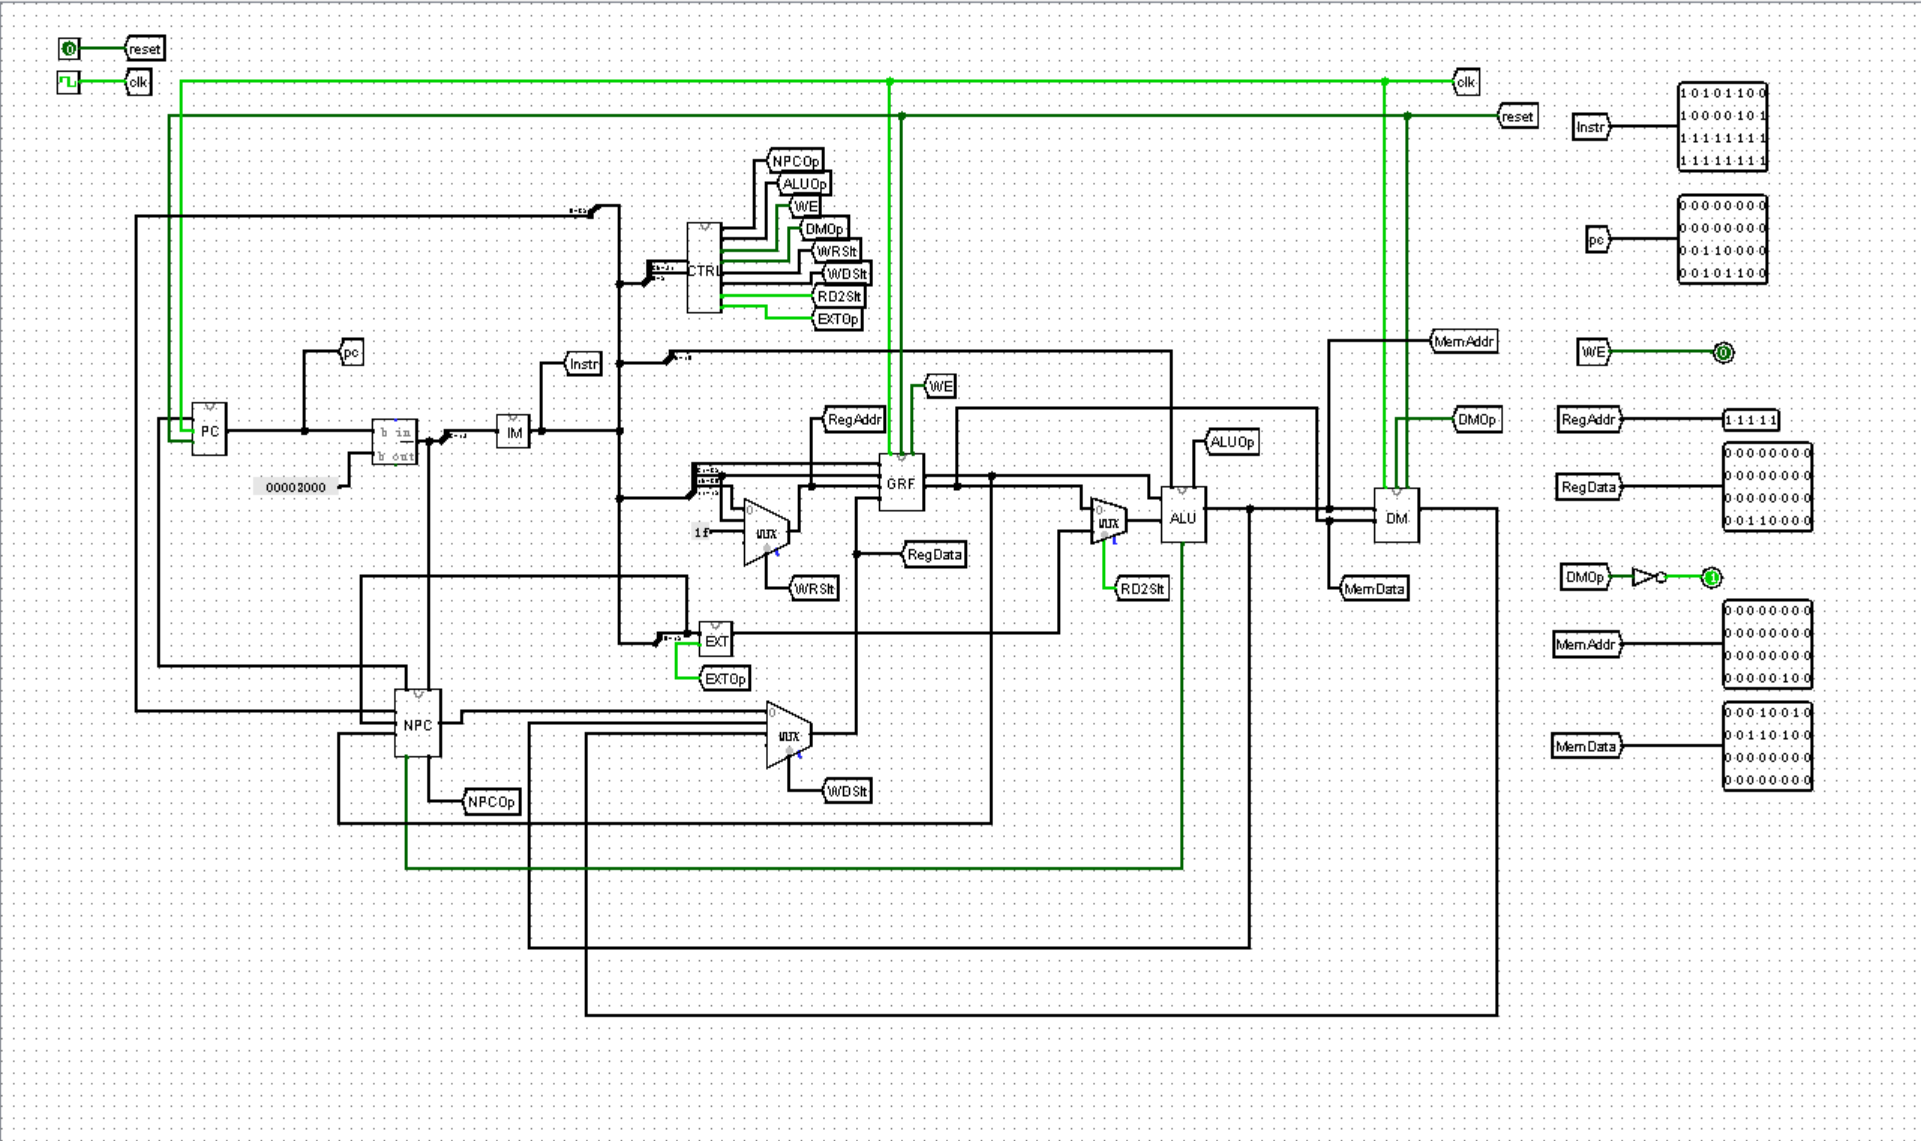
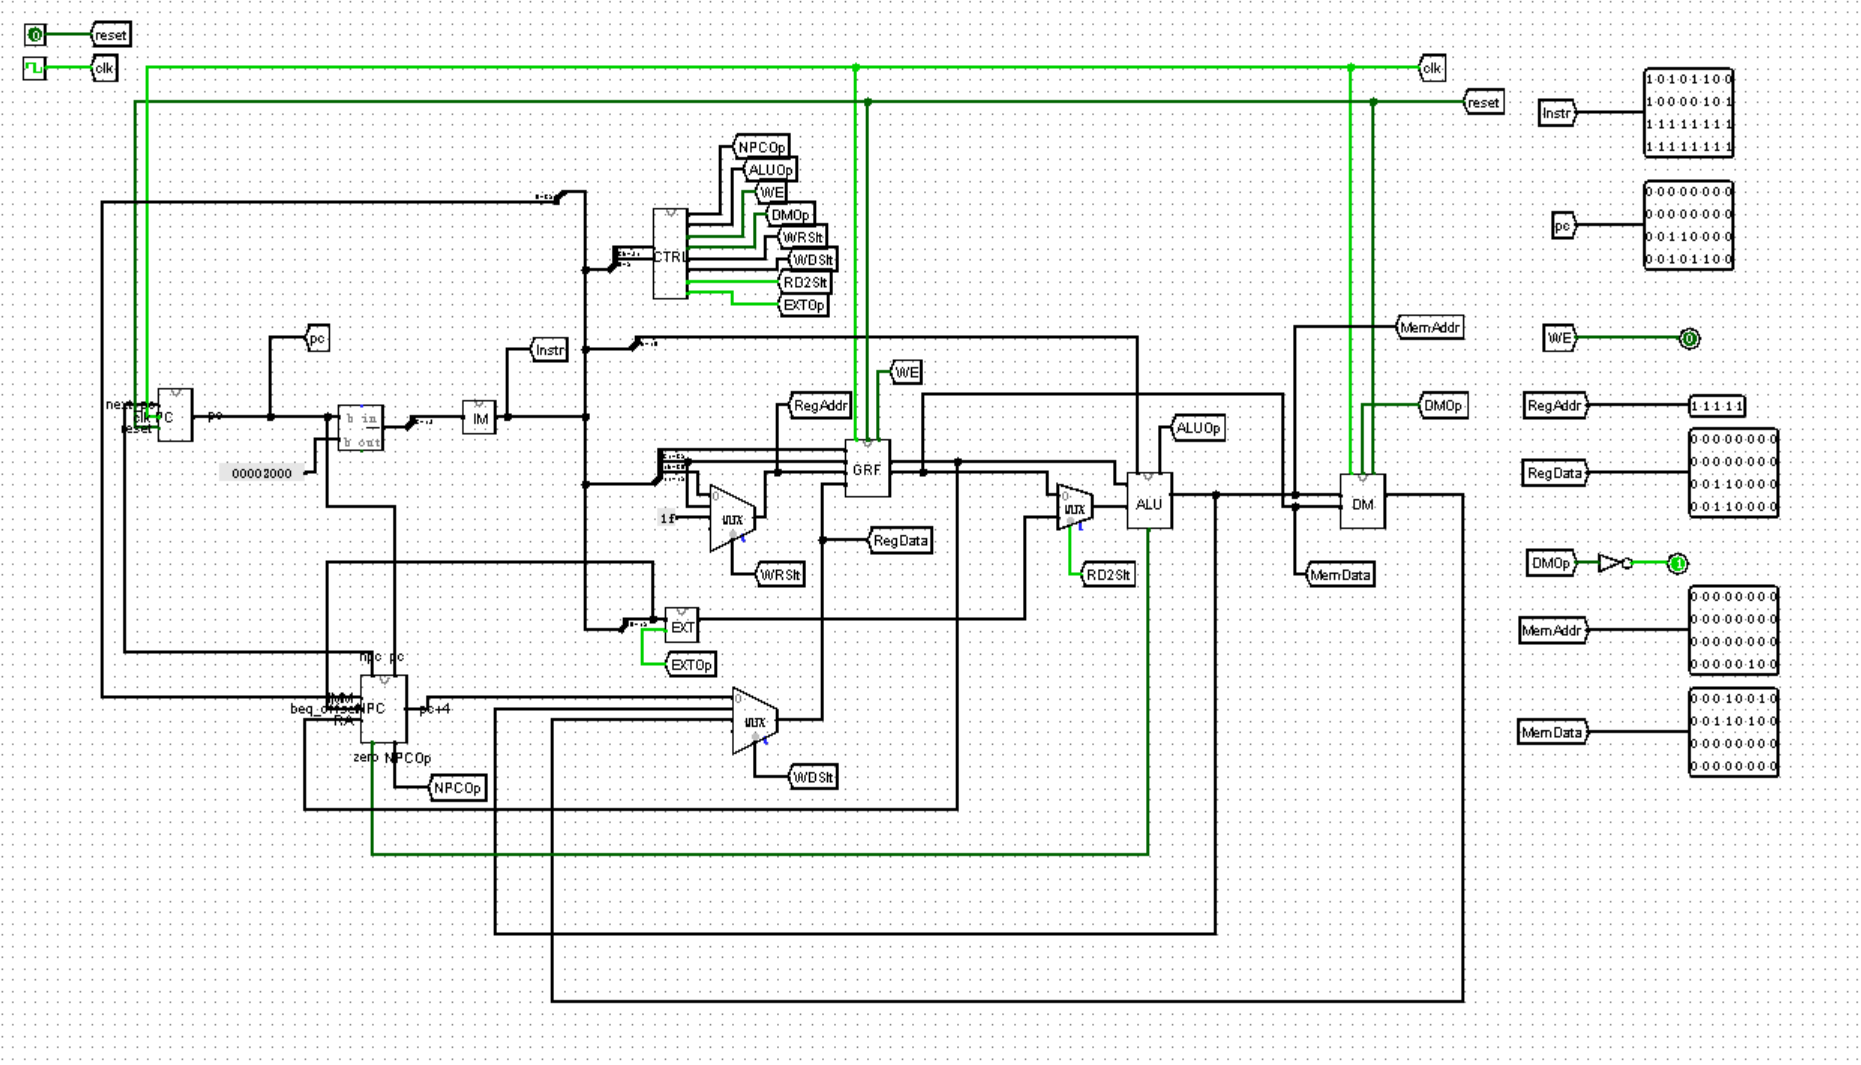
Site updated: 2024-10-26 21:46:38

diff --git a/2024/10/24/【CO】P3课下--单周期CPU/index.html b/2024/10/24/【CO】P3课下--单周期CPU/index.html
@@ -31,8 +31,18 @@
 <meta property="og:image" content="http://example.com/img/%E3%80%90CO%E3%80%91P3%E8%AF%BE%E4%B8%8B%E2%80%94%E2%80%94%E5%8D%95%E5%91%A8%E6%9C%9FCPU/p3.png">
 <meta property="og:image" content="http://example.com/img/%E3%80%90CO%E3%80%91P3%E8%AF%BE%E4%B8%8B%E2%80%94%E2%80%94%E5%8D%95%E5%91%A8%E6%9C%9FCPU/p4.png">
 <meta property="og:image" content="http://example.com/img/%E3%80%90CO%E3%80%91P3%E8%AF%BE%E4%B8%8B%E2%80%94%E2%80%94%E5%8D%95%E5%91%A8%E6%9C%9FCPU/p5.png">
+<meta property="og:image" content="http://example.com/img/%E3%80%90CO%E3%80%91P3%E8%AF%BE%E4%B8%8B%E2%80%94%E2%80%94%E5%8D%95%E5%91%A8%E6%9C%9FCPU/p6.png">
+<meta property="og:image" content="http://example.com/img/%E3%80%90CO%E3%80%91P3%E8%AF%BE%E4%B8%8B%E2%80%94%E2%80%94%E5%8D%95%E5%91%A8%E6%9C%9FCPU/p7.png">
+<meta property="og:image" content="http://example.com/img/%E3%80%90CO%E3%80%91P3%E8%AF%BE%E4%B8%8B%E2%80%94%E2%80%94%E5%8D%95%E5%91%A8%E6%9C%9FCPU/p8.png">
+<meta property="og:image" content="http://example.com/img/%E3%80%90CO%E3%80%91P3%E8%AF%BE%E4%B8%8B%E2%80%94%E2%80%94%E5%8D%95%E5%91%A8%E6%9C%9FCPU/p9.png">
+<meta property="og:image" content="http://example.com/img/%E3%80%90CO%E3%80%91P3%E8%AF%BE%E4%B8%8B%E2%80%94%E2%80%94%E5%8D%95%E5%91%A8%E6%9C%9FCPU/p10.png">
+<meta property="og:image" content="http://example.com/img/%E3%80%90CO%E3%80%91P3%E8%AF%BE%E4%B8%8B%E2%80%94%E2%80%94%E5%8D%95%E5%91%A8%E6%9C%9FCPU/p11.png">
+<meta property="og:image" content="http://example.com/img/%E3%80%90CO%E3%80%91P3%E8%AF%BE%E4%B8%8B%E2%80%94%E2%80%94%E5%8D%95%E5%91%A8%E6%9C%9FCPU/p12.png">
+<meta property="og:image" content="http://example.com/img/%E3%80%90CO%E3%80%91P3%E8%AF%BE%E4%B8%8B%E2%80%94%E2%80%94%E5%8D%95%E5%91%A8%E6%9C%9FCPU/p13.png">
+<meta property="og:image" content="http://example.com/img/%E3%80%90CO%E3%80%91P3%E8%AF%BE%E4%B8%8B%E2%80%94%E2%80%94%E5%8D%95%E5%91%A8%E6%9C%9FCPU/p14.png">
+<meta property="og:image" content="http://example.com/img/%E3%80%90CO%E3%80%91P3%E8%AF%BE%E4%B8%8B%E2%80%94%E2%80%94%E5%8D%95%E5%91%A8%E6%9C%9FCPU/p15.png">
 <meta property="article:published_time" content="2024-10-24T01:32:20.000Z">
-<meta property="article:modified_time" content="2024-10-26T10:37:49.067Z">
+<meta property="article:modified_time" content="2024-10-26T13:46:21.329Z">
 <meta property="article:author" content="mRNA">
 <meta property="article:tag" content="CO">
 <meta property="article:tag" content="Logisim">
@@ -262,7 +272,7 @@
       <span class="post-meta mr-2">
         <i class="iconfont icon-chart"></i>
         
-          842 字
+          1.8k 字
         
       </span>
     
@@ -273,7 +283,7 @@
         
         
         
-          8 分钟
+          15 分钟
         
       </span>
     
@@ -396,10 +406,255 @@
 </tr>
 <tr>
 <td>IMM</td>
-<td>接收当前J型指令的偏移量</td>
+<td>接收当前J型指令的26位转移地址</td>
+</tr>
+<tr>
+<td>beq_offset</td>
+<td>接收beq指令中16位偏移量</td>
+</tr>
+<tr>
+<td>RA</td>
+<td>接收读出的jr指令转移至$31指向的地址（仅设计了jr $ra）</td>
+</tr>
+<tr>
+<td>zero</td>
+<td>接收ALU返回的rs rt寄存器值是否相等的信号，用于beq</td>
+</tr>
+<tr>
+<td>NPCOp</td>
+<td>接收CTRL返回的下一个PC所指向的位置类型控制信号</td>
+</tr>
+<tr>
+<td>npc</td>
+<td>向PC传递经NPC模块得到的下一条执行指令的位置</td>
 </tr>
 </tbody></table>
+<p>其中，控制信号NPCOp的功能具体如下：</p>
+<table>
+<thead>
+<tr>
+<th>信号</th>
+<th>功能</th>
+</tr>
+</thead>
+<tbody><tr>
+<td>2’b00</td>
+<td>npc为pc+4</td>
+</tr>
+<tr>
+<td>2’b01</td>
+<td>npc为j&#x2F;jal指向的指令</td>
+</tr>
+<tr>
+<td>2’b10</td>
+<td>npc为$ra指向的指令</td>
+</tr>
+<tr>
+<td>2’b11</td>
+<td>npc为pc+4&#x2F;beq分支的指令，取决于zero的输入</td>
+</tr>
+</tbody></table>
+<h4 id="实现电路-1"><a href="#实现电路-1" class="headerlink" title="实现电路"></a>实现电路</h4><p><img src="/img/%E3%80%90CO%E3%80%91P3%E8%AF%BE%E4%B8%8B%E2%80%94%E2%80%94%E5%8D%95%E5%91%A8%E6%9C%9FCPU/p6.png" srcset="/img/loading.gif" lazyload alt="电路图"></p>
+<div class="note note-danger">
+            <p>注意：此处pc接收的应未减0x00003000，并且输出npc前减去0x00003000以保持与pc的配合</p>
+          </div>
 
+<h3 id="IM"><a href="#IM" class="headerlink" title="IM"></a>IM</h3><p>结构相对简单，输入为希望读取的地址，输出为读到的指令机器码。</p>
+<h3 id="GRF"><a href="#GRF" class="headerlink" title="GRF"></a>GRF</h3><h4 id="端口说明-2"><a href="#端口说明-2" class="headerlink" title="端口说明"></a>端口说明</h4><p><img src="/img/%E3%80%90CO%E3%80%91P3%E8%AF%BE%E4%B8%8B%E2%80%94%E2%80%94%E5%8D%95%E5%91%A8%E6%9C%9FCPU/p7.png" srcset="/img/loading.gif" lazyload alt="示意图"></p>
+<table>
+<thead>
+<tr>
+<th>端口</th>
+<th>功能</th>
+</tr>
+</thead>
+<tbody><tr>
+<td>A1</td>
+<td>读取的第一个寄存器编号（rs）</td>
+</tr>
+<tr>
+<td>A2</td>
+<td>读取的第二个寄存器编号（rt）</td>
+</tr>
+<tr>
+<td>WR</td>
+<td>写入数据的目标寄存器（rd&#x2F;rt&#x2F;$ra）</td>
+</tr>
+<tr>
+<td>WD</td>
+<td>写入目标寄存器的数据</td>
+</tr>
+<tr>
+<td>RD1</td>
+<td>A1中的数据</td>
+</tr>
+<tr>
+<td>RD2</td>
+<td>A2中的数据</td>
+</tr>
+<tr>
+<td>clk</td>
+<td>时钟信号</td>
+</tr>
+<tr>
+<td>reset</td>
+<td>异步复位信号</td>
+</tr>
+<tr>
+<td>WE</td>
+<td>写入信号</td>
+</tr>
+</tbody></table>
+<h4 id="实现电路-2"><a href="#实现电路-2" class="headerlink" title="实现电路"></a>实现电路</h4><p><img src="/img/%E3%80%90CO%E3%80%91P3%E8%AF%BE%E4%B8%8B%E2%80%94%E2%80%94%E5%8D%95%E5%91%A8%E6%9C%9FCPU/p8.png" srcset="/img/loading.gif" lazyload alt="电路图"><br>实现思路很简单，注意对应关系不要混乱即可，推荐自动化对.circ文件内容进行修改。</p>
+<h3 id="ALU"><a href="#ALU" class="headerlink" title="ALU"></a>ALU</h3><h4 id="端口说明-3"><a href="#端口说明-3" class="headerlink" title="端口说明"></a>端口说明</h4><p> <img src="/img/%E3%80%90CO%E3%80%91P3%E8%AF%BE%E4%B8%8B%E2%80%94%E2%80%94%E5%8D%95%E5%91%A8%E6%9C%9FCPU/p9.png" srcset="/img/loading.gif" lazyload alt="示意图"></p>
+<table>
+<thead>
+<tr>
+<th>端口</th>
+<th>功能</th>
+</tr>
+</thead>
+<tbody><tr>
+<td>A</td>
+<td>进行运算的第一个数</td>
+</tr>
+<tr>
+<td>B</td>
+<td>进行运算的第二个数</td>
+</tr>
+<tr>
+<td>sll</td>
+<td>进行sll操作需要左移的位数</td>
+</tr>
+<tr>
+<td>ALUOp</td>
+<td>控制信号，选择ALU进行的操作</td>
+</tr>
+<tr>
+<td>zero</td>
+<td>输出两个寄存器中的值是否相等，为beq指令时的NPC提供是否分支的依据</td>
+</tr>
+<tr>
+<td>ans</td>
+<td>输出运算结果</td>
+</tr>
+</tbody></table>
+<p>其中，控制信号ALUOp的功能具体如下：</p>
+<table>
+<thead>
+<tr>
+<th>信号</th>
+<th>功能</th>
+</tr>
+</thead>
+<tbody><tr>
+<td>3’b000</td>
+<td>A+B</td>
+</tr>
+<tr>
+<td>3’b001</td>
+<td>A-B</td>
+</tr>
+<tr>
+<td>3’b010</td>
+<td>A</td>
+</tr>
+<tr>
+<td>3’b011</td>
+<td>B&lt;&lt;sll</td>
+</tr>
+<tr>
+<td>3’b100</td>
+<td>B&lt;&lt;16</td>
+</tr>
+</tbody></table>
+<h4 id="实现电路-3"><a href="#实现电路-3" class="headerlink" title="实现电路"></a>实现电路</h4><p><img src="/img/%E3%80%90CO%E3%80%91P3%E8%AF%BE%E4%B8%8B%E2%80%94%E2%80%94%E5%8D%95%E5%91%A8%E6%9C%9FCPU/p10.png" srcset="/img/loading.gif" lazyload alt="电路图"><br>利用Logisim自带的元件进行算术操作，实现较为简单。ALU关键在于数据通路，在下面分析。</p>
+<h3 id="DM"><a href="#DM" class="headerlink" title="DM"></a>DM</h3><p><img src="/img/%E3%80%90CO%E3%80%91P3%E8%AF%BE%E4%B8%8B%E2%80%94%E2%80%94%E5%8D%95%E5%91%A8%E6%9C%9FCPU/p11.png" srcset="/img/loading.gif" lazyload alt="电路图"><br>想法也较为简单，使用之前提到的RAM即可，其中DMOp作为读写控制信号，其功能具体如下:</p>
+<table>
+<thead>
+<tr>
+<th>信号</th>
+<th>功能</th>
+</tr>
+</thead>
+<tbody><tr>
+<td>1’b0</td>
+<td>写入数据</td>
+</tr>
+<tr>
+<td>1’b1</td>
+<td>读出数据</td>
+</tr>
+</tbody></table>
+<h3 id="EXT"><a href="#EXT" class="headerlink" title="EXT"></a>EXT</h3><p><img src="/img/%E3%80%90CO%E3%80%91P3%E8%AF%BE%E4%B8%8B%E2%80%94%E2%80%94%E5%8D%95%E5%91%A8%E6%9C%9FCPU/p12.png" srcset="/img/loading.gif" lazyload alt="电路图"><br>选择0扩展或符号扩展</p>
+<table>
+<thead>
+<tr>
+<th>信号</th>
+<th>功能</th>
+</tr>
+</thead>
+<tbody><tr>
+<td>1’b0</td>
+<td>0扩展</td>
+</tr>
+<tr>
+<td>1’b1</td>
+<td>符号扩展</td>
+</tr>
+</tbody></table>
+<h3 id="CTRL"><a href="#CTRL" class="headerlink" title="CTRL"></a>CTRL</h3><h4 id="端口说明-4"><a href="#端口说明-4" class="headerlink" title="端口说明"></a>端口说明</h4><p> <img src="/img/%E3%80%90CO%E3%80%91P3%E8%AF%BE%E4%B8%8B%E2%80%94%E2%80%94%E5%8D%95%E5%91%A8%E6%9C%9FCPU/p13.png" srcset="/img/loading.gif" lazyload alt="示意图"></p>
+<table>
+<thead>
+<tr>
+<th>端口</th>
+<th>功能</th>
+</tr>
+</thead>
+<tbody><tr>
+<td>OpCode</td>
+<td>获取指令的操作码</td>
+</tr>
+<tr>
+<td>FuncCode</td>
+<td>获取指令的功能码</td>
+</tr>
+<tr>
+<td>NPCOp</td>
+<td>模块控制信号，控制NPC操作</td>
+</tr>
+<tr>
+<td>ALUOp</td>
+<td>模块控制信号，控制ALU操作</td>
+</tr>
+<tr>
+<td>WE</td>
+<td>模块控制信号，控制GRF读写</td>
+</tr>
+<tr>
+<td>DMOp</td>
+<td>模块控制信号，控制DM读写</td>
+</tr>
+<tr>
+<td>WRSlt</td>
+<td>数据通路控制信号，控制写入的寄存器来源</td>
+</tr>
+<tr>
+<td>WDSlt</td>
+<td>数据通路控制信号，控制写入的数据来源</td>
+</tr>
+<tr>
+<td>ALUSlt</td>
+<td>数据通路控制信号，控制进入ALU的第二个数来源</td>
+</tr>
+<tr>
+<td>EXTOp</td>
+<td>模块控制信号，控制EXT扩展方式</td>
+</tr>
+</tbody></table>
+<p>CTRL输出的控制信号可以分为模块控制信号和数据通路控制信号，模块控制信号使模块进行不同的操作，数据通路控制信号控制进入模块的数据来源。根据指令码和操作码的不同，CTRL输出不同的控制信号。具体的指令和控制信号的控制关系我们在数据通路分析部分给出。</p>
+<h4 id="实现电路-4"><a href="#实现电路-4" class="headerlink" title="实现电路"></a>实现电路</h4><p>实现电路可分为两部分：与逻辑和或逻辑，与逻辑负责识别指令，或逻辑负责提供指令对应的控制信号，将这两部分分开有助于添加指令，在连线时可以先把对应的操作码和功能码输入，然后根据颜色与门电路连接，可以减小犯错误的概率。<br><img src="/img/%E3%80%90CO%E3%80%91P3%E8%AF%BE%E4%B8%8B%E2%80%94%E2%80%94%E5%8D%95%E5%91%A8%E6%9C%9FCPU/p14.png" srcset="/img/loading.gif" lazyload alt="与逻辑"><br><img src="/img/%E3%80%90CO%E3%80%91P3%E8%AF%BE%E4%B8%8B%E2%80%94%E2%80%94%E5%8D%95%E5%91%A8%E6%9C%9FCPU/p15.png" srcset="/img/loading.gif" lazyload alt="或逻辑"></p>
+<h2 id="数据通路分析"><a href="#数据通路分析" class="headerlink" title="数据通路分析"></a>数据通路分析</h2>
                 
               </div>
             
